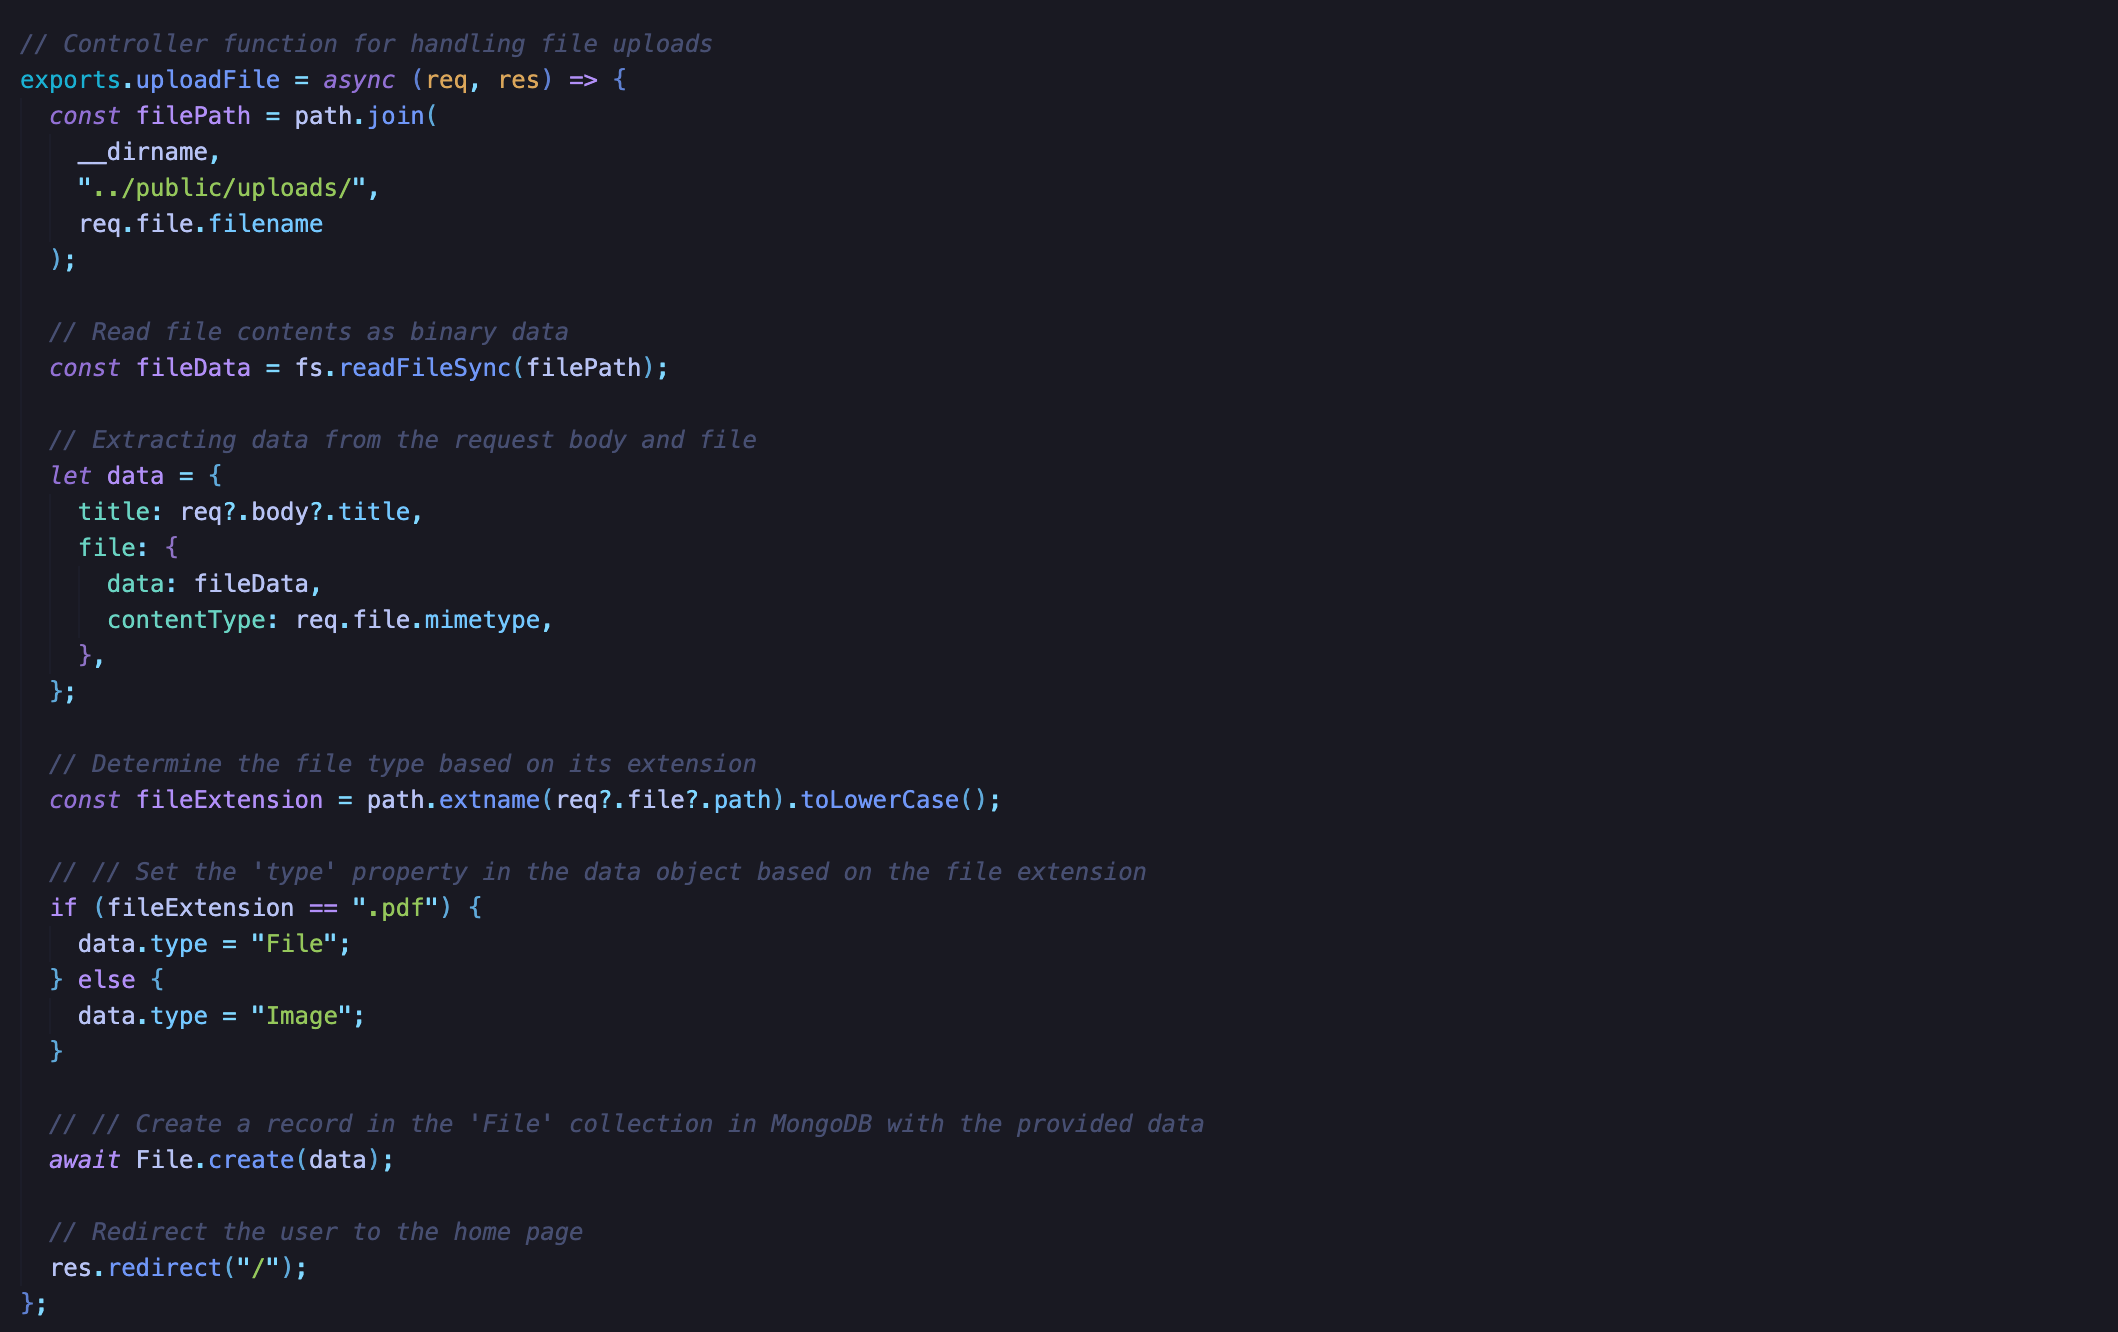
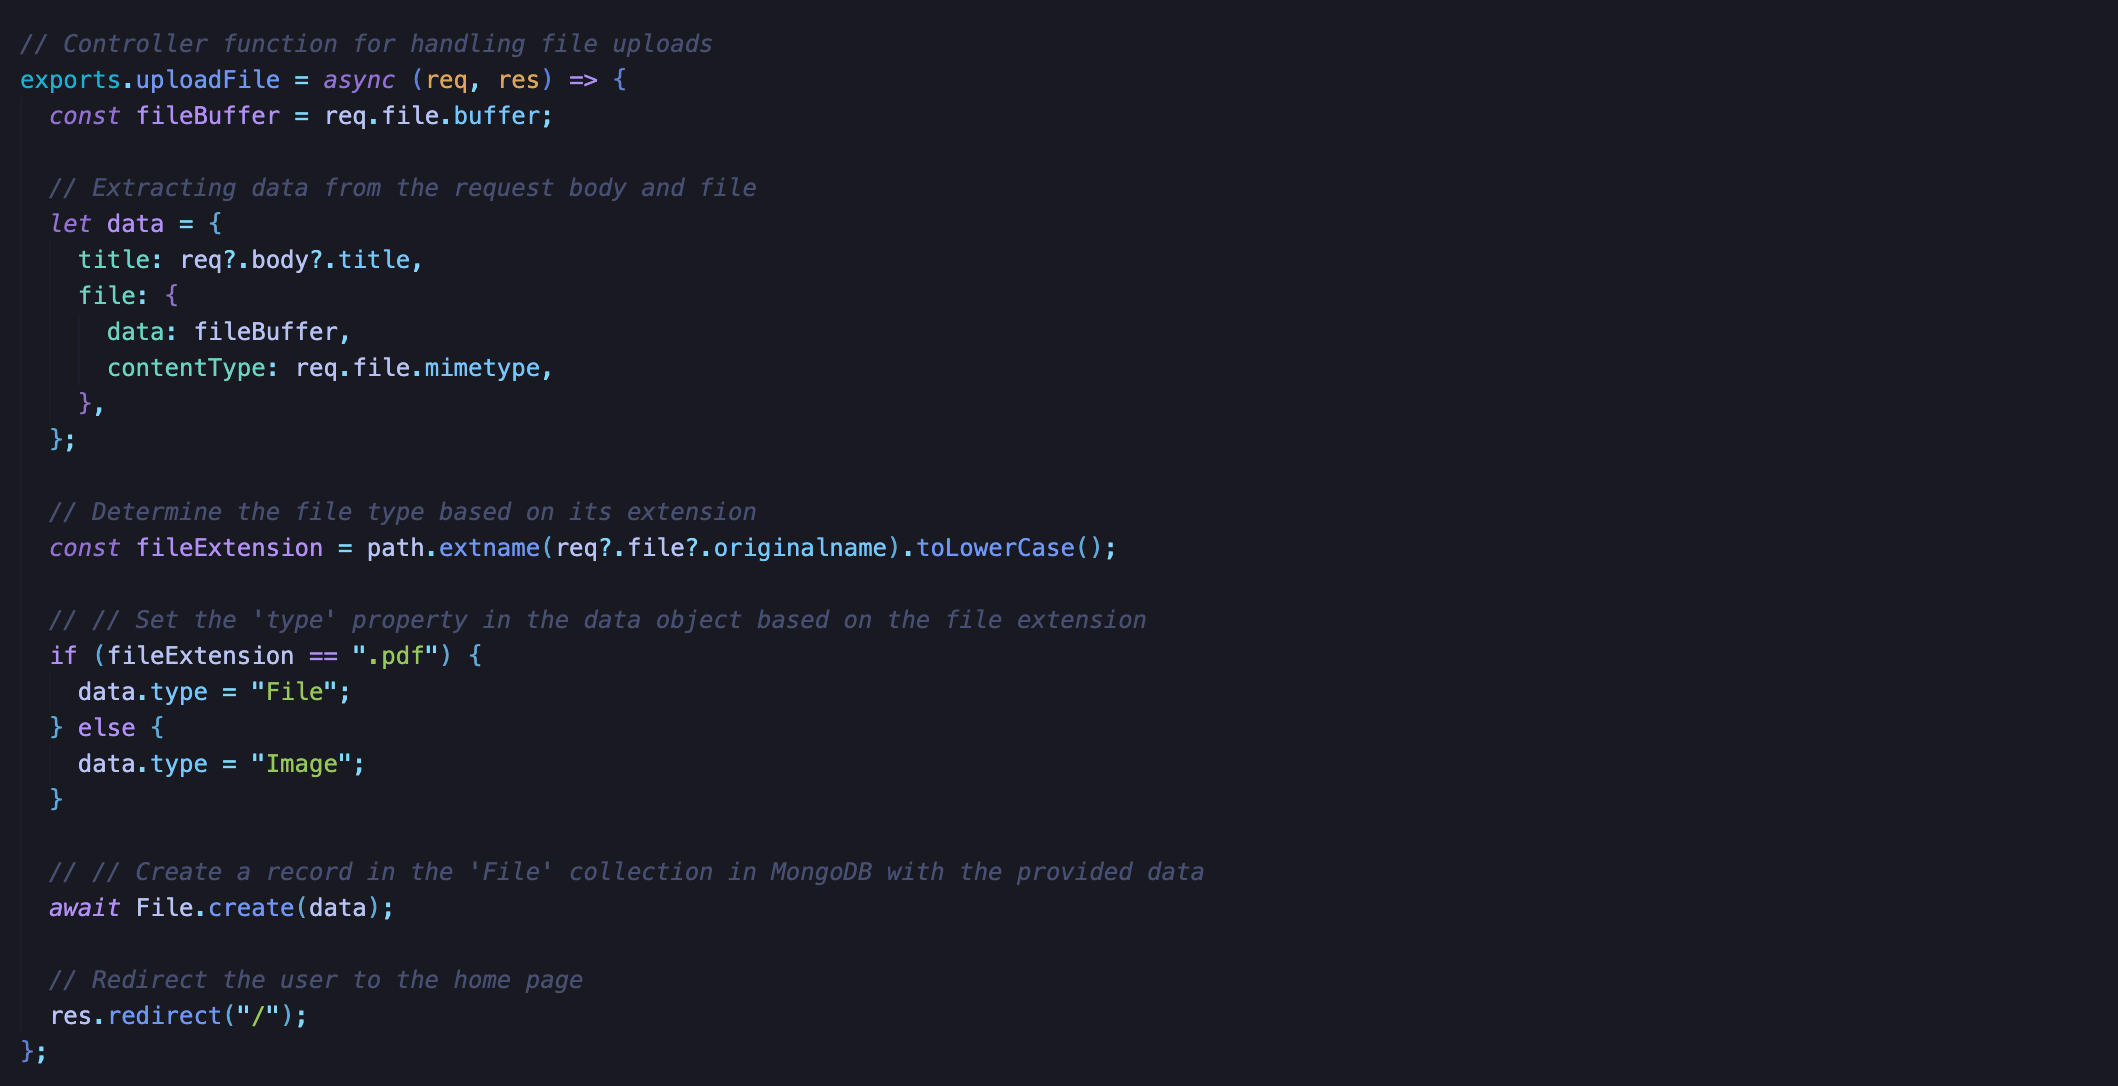
not save uploaded file locally

diff --git a/controllers/file.js b/controllers/file.js
@@ -1,29 +1,21 @@
 const File = require("../models/file");
 const path = require("path");
-const fs = require("fs");
 
 // Controller function for handling file uploads
 exports.uploadFile = async (req, res) => {
-  const filePath = path.join(
-    __dirname,
-    "../public/uploads/",
-    req.file.filename
-  );
-
-  // Read file contents as binary data
-  const fileData = fs.readFileSync(filePath);
+  const fileBuffer = req.file.buffer;
 
   // Extracting data from the request body and file
   let data = {
     title: req?.body?.title,
     file: {
-      data: fileData,
+      data: fileBuffer,
       contentType: req.file.mimetype,
     },
   };
 
   // Determine the file type based on its extension
-  const fileExtension = path.extname(req?.file?.path).toLowerCase();
+  const fileExtension = path.extname(req?.file?.originalname).toLowerCase();
 
   // // Set the 'type' property in the data object based on the file extension
   if (fileExtension == ".pdf") {

diff --git a/middlewares/upload.js b/middlewares/upload.js
@@ -2,16 +2,7 @@ const multer = require("multer");
 const path = require("path");
 
 // Configure storage for uploaded files
-const storage = multer.diskStorage({
-  destination: (req, file, cb) => {
-    // Set the destination folder for uploaded files
-    cb(null, "./public/uploads");
-  },
-  filename: (req, file, cb) => {
-    // Set the filename to include the current timestamp and the original file extension
-    cb(null, Date.now() + path.extname(file.originalname));
-  },
-});
+const storage = multer.memoryStorage();
 
 // Configure Multer middleware with storage and file filter
 const uploadImg = multer({

diff --git a/README.md b/README.md
@@ -118,15 +118,9 @@ To change the database location, you'll need to go to `.env` file and change the
 
 ### Handle Uploaded File
 
-![Handle uploaded file](./public/images/upload-1.png)
+![Handle uploaded file](./public/images/upload.png)
 
-- Multer is configured with a disk storage engine `multer.diskStorage` to define the destination and filename for storing uploaded files
-
-- The `destination` function will determine where file will be stored and in this function, all of the uploaded files will be saved in `/public/uploads`
-
-- The `filename` function will generate a unique filename based in the current timestamp and the original file extension
-
-![Handle uploaded file](./public/images/upload-2.png)
+- Set up storage using `multer.memoryStorage()`, which stores the file data in memory rather than on disk. This is useful for scenarios where you want to process files without saving them to disk permanently.
 
 - The `fileFilter` function will be used to validate the uploaded file is acceptable based on its mimetype and extension
 
@@ -149,8 +143,6 @@ To change the database location, you'll need to go to `.env` file and change the
 ![Upload File](./public/images/uploadFile.png)
 
 - The `uploadFile` function handles the file upload 
-
-- Constructs file path and reads its binary contents.
 
 - It extracts data from the request body and file, including content type.
 
